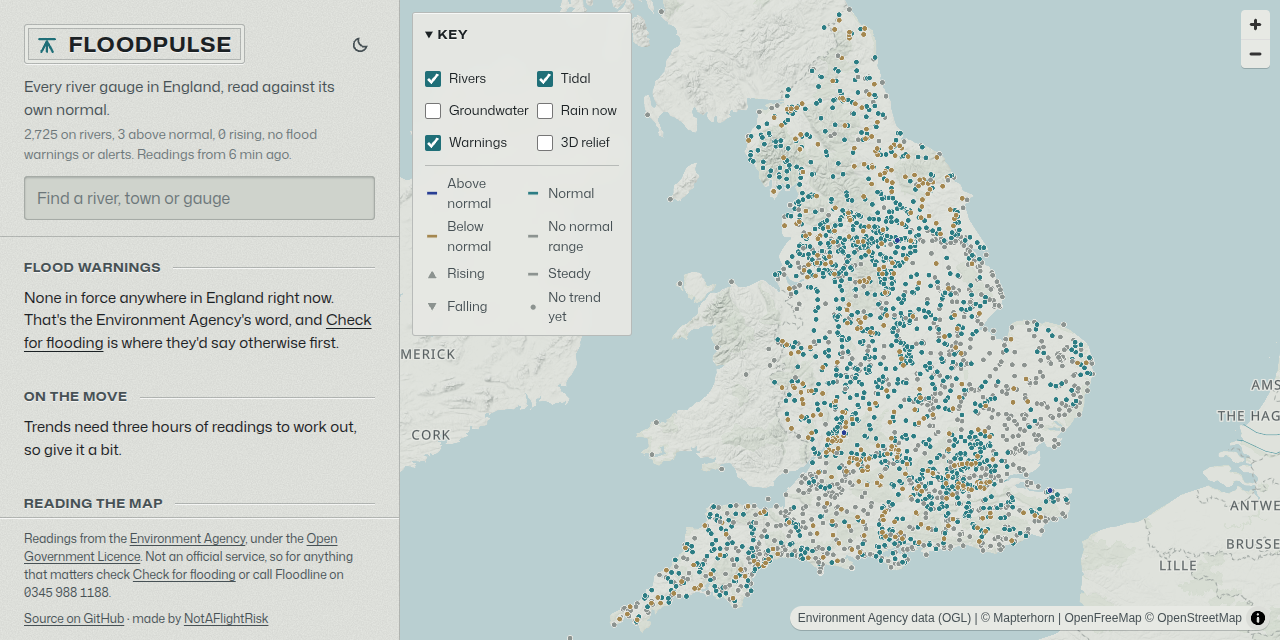
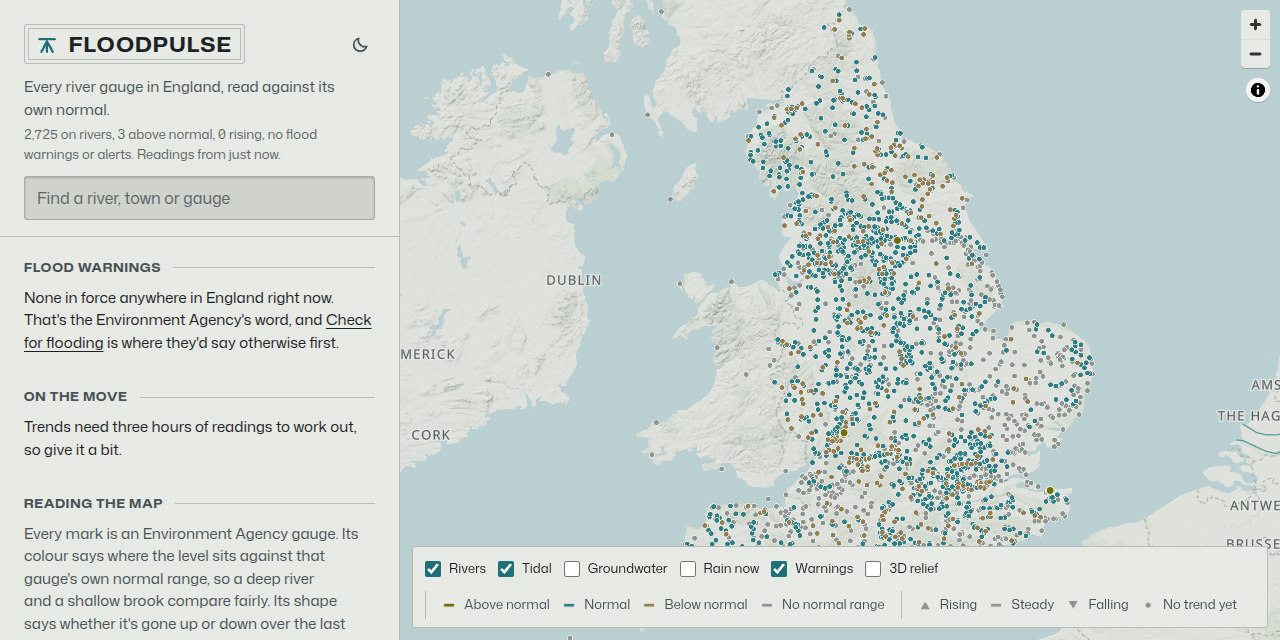
fix: louder above-normal marks, room for the key strip, attribution shut

diff --git a/src/lib/components/Map.svelte b/src/lib/components/Map.svelte
@@ -25,6 +25,7 @@
   const ENGLAND: [number, number, number, number] = [-6.4, 49.9, 2.1, 55.85];
   const OUTLINES_FROM = 8;
   const calm = new MediaQuery('prefers-reduced-motion: reduce');
+  const wide = new MediaQuery('width >= 800px');
   const RANK = { high: 0, low: 1, normal: 2, unknown: 3 };
 
   let container: HTMLDivElement;
@@ -83,8 +84,9 @@
     );
 
   function paintIcons(target: Map) {
-    const [halo, ink, ...fills] = resolve([
+    const [halo, outline, ink, ...fills] = resolve([
       'map-halo',
+      'ink',
       'on-plaque',
       ...STATES.map((state) => `state-${state}`),
       'severe',
@@ -95,8 +97,11 @@
       target.hasImage(id)
         ? target.updateImage(id, image)
         : target.addImage(id, image, { pixelRatio: RATIO });
+    // above normal gets an ink edge, so it stands out from the stone in either theme
     STATES.forEach((state, i) =>
-      TRENDS.forEach((trend) => add(`g-${state}-${trend}`, gauge(trend, fills[i], halo)))
+      TRENDS.forEach((trend) =>
+        add(`g-${state}-${trend}`, gauge(trend, fills[i], state === 'high' ? outline : halo))
+      )
     );
     SEVERITIES.forEach((severity) =>
       add(`w-${severity}`, plaque(severity, fills[STATES.length + severity - 1], ink))
@@ -276,6 +281,10 @@
             container,
             style: basemap(palette()),
             bounds: ENGLAND,
+            // room for the key strip along the bottom on a desktop
+            fitBoundsOptions: {
+              padding: { top: 16, right: 16, left: 16, bottom: wide.current ? 110 : 16 }
+            },
             maxBounds: [-12, 48, 6, 60],
             attributionControl: false,
             dragRotate: false,
@@ -294,11 +303,13 @@
           offset: 12,
           className: 'tip'
         });
-        target.on('load', () => {
-          // compact attribution starts open over the map, which helps nobody
+        // compact attribution opens itself once the sources say who they are, so shut it after
+        target.once('idle', () =>
           container
             .querySelector('.maplibregl-compact-show')
-            ?.classList.remove('maplibregl-compact-show');
+            ?.classList.remove('maplibregl-compact-show')
+        );
+        target.on('load', () => {
           addLayers(target!);
           repaint(target!);
           hover(target!, popup, 'gauges', (p) => `${p.name}${p.level ? ` · ${p.level}` : ''}`);

diff --git a/src/lib/components/Glyph.svelte b/src/lib/components/Glyph.svelte
@@ -4,7 +4,12 @@
   let { trend, state }: { trend: Trend; state: State } = $props();
 </script>
 
-<svg viewBox="0 0 18 18" aria-hidden="true" style:--fill="var(--state-{state})">
+<svg
+  viewBox="0 0 18 18"
+  aria-hidden="true"
+  style:--fill="var(--state-{state})"
+  style:--edge={state === 'high' ? 'var(--ink)' : 'var(--map-halo)'}
+>
   {#if trend === 'rising'}
     <path d="M9 3 16 15H2Z" />
   {:else if trend === 'falling'}
@@ -22,7 +27,7 @@
     width: 1.1em;
     height: 1.1em;
     fill: var(--fill);
-    stroke: var(--map-halo);
+    stroke: var(--edge);
     stroke-width: 1.5;
     stroke-linejoin: round;
   }

diff --git a/src/app.css b/src/app.css
@@ -17,7 +17,7 @@
   --band: light-dark(#c3c9c0, #2c3639);
   --state-low: light-dark(#927d50, #a8946c);
   --state-normal: light-dark(#2c7d84, #4aa8b0);
-  --state-high: light-dark(#6f6c00, #d8d24a);
+  --state-high: light-dark(#93a000, #d8d24a);
   --state-unknown: light-dark(#8c9390, #66706e);
   --rain: light-dark(#2f63c4, #6d9cf2);
 

diff --git a/src/lib/components/Search.svelte b/src/lib/components/Search.svelte
@@ -88,7 +88,6 @@
     background: var(--stone-sunk);
     border: 1px solid var(--incise);
     border-radius: var(--radius);
-    box-shadow: inset 0 1px 2px var(--incise);
 
     &::placeholder {
       color: var(--ink-faint);
